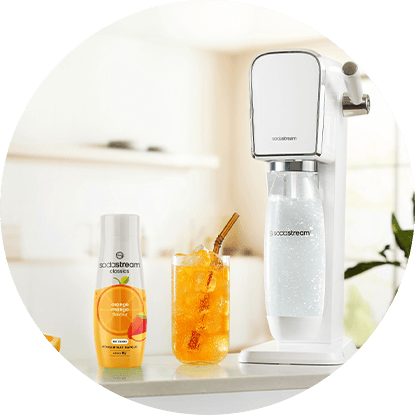
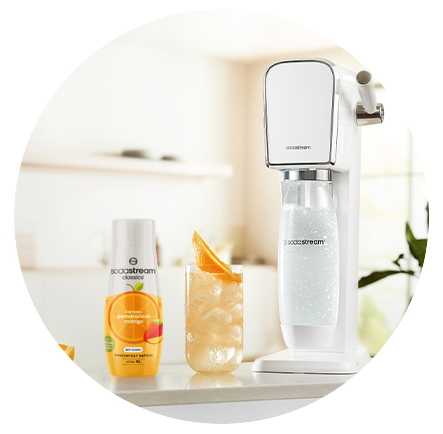
feedback updates

diff --git a/index.html b/index.html
@@ -210,7 +210,7 @@
       </div>
       <div class="es-vitamins">
         <h2 class="es-vitamins__title">
-          Delikatny smak kwiatu czarnego bzu wzmocniony witaminami*
+          Tropikalny duet - z dodatkiem witamin i cynku*
         </h2>
 
         <div class="es-vitamins__content">
@@ -223,19 +223,25 @@
               B3
             </span>
             <p class="es-vitamins__text es-vitamins__text--top">
-              Syrop SodaStream o smaku Kwiatu Czarnego Bzu zawiera niacynę,
-              czyli witaminę B3, która pomaga zmniejszyć uczucie zmęczenia. To
-              doskonały smak i Twój nowy sposób na odrobinę relaksu!
+              Pomarańcza, mango i mikroelementy - zestaw doskonały! Niacyna,
+              czyli witamina B3 pomaga zmniejszyć uczucie zmęczenia – teraz
+              znajdziesz ją również w syropie SodaStream o smaku Pomarańczy
+              Mango.
             </p>
             <span class="es-vitamins__badge es-vitamins__badge--b6">
               <span>witamina</span>
               B6
             </span>
             <p class="es-vitamins__text es-vitamins__text--bottom">
-              Subtelny smak i wsparcie dla organizmu w jednym! Cynk pomaga w
-              prawidłowym funkcjonowaniu układu odpornościowego – teraz
-              znajdziesz go także w&nbsp;syropie SodaStream o smaku Kwiatu
-              Czarnego Bzu.
+              Gotowy na nowy dzień? Cynk zawarty w syropie SodaStream o smaku
+              Pomarańczy Mango wspiera odporność i dodaje energii w codziennym
+              rytmie. Poczuj, jak małe zmiany wpływają na Ciebie!
+            </p>
+            <p class="es-vitamins__text es-vitamins__text--bottomm">
+              Syrop SodaStream o smaku Pomarańczy Mango został wzbogacony o
+              witaminę B6, która wspiera prawidłowe funkcjonowanie układu
+              nerwowego i odpornościowego. To owocowa przyjemność i codzienne
+              wsparcie dla Ciebie!
             </p>
           </div>
           <div class="es-vitamins__texts es-vitamins__texts--right">
@@ -243,9 +249,15 @@
               cynk
             </span>
             <p class="es-vitamins__text es-vitamins__text--middle">
-              Witamina B6 zawarta w syropie SodaStream o smaku Kwiatu Czarnego
-              Bzu wspomaga prawidłowe funkcjonowanie układu nerwowego. Ciesz się
-              chwilą przyjemności i codziennym wsparciem.
+              Syrop SodaStream o smaku Pomarańczy Mango został wzbogacony o
+              witaminę B6, która wspiera prawidłowe funkcjonowanie układu
+              nerwowego i odpornościowego. To owocowa przyjemność i codzienne
+              wsparcie dla Ciebie!
+            </p>
+            <p class="es-vitamins__text es-vitamins__text--middlem">
+              Gotowy na nowy dzień? Cynk zawarty w syropie SodaStream o smaku
+              Pomarańczy Mango wspiera odporność i dodaje energii w codziennym
+              rytmie. Poczuj, jak małe zmiany wpływają na Ciebie!
             </p>
           </div>
         </div>

diff --git a/css/style.css b/css/style.css
@@ -229,13 +229,24 @@
   font-family: inherit;
   font-weight: inherit;
   font-size: 16px;
-  font-family: "HurmeGeometricSans3-Light", sans-serif;
   text-align: left;
 }
 
 #es-sodastream.es-sodastream .es-vitamins__badge {
   font-size: 30px;
   font-weight: 700;
+}
+.es-vitamins__text--middlem {
+  display: block;
+}
+.es-vitamins__text--bottomm {
+  display: block;
+}
+.es-vitamins__text--middle {
+  display: none;
+}
+.es-vitamins__text--bottom {
+  display: none;
 }
 
 #es-sodastream.es-sodastream .es-vitamins__footer {
@@ -1032,19 +1043,27 @@
     font-size: 16px;
   }
   .es-vitamins__text--top {
-    top: 9%;
-    right: 29%;
+    top: 13%;
+    right: 27%;
     text-align: right !important;
   }
   .es-vitamins__text--middle {
     top: 23%;
     left: 40%;
     text-align: left !important;
+    display: block;
   }
   .es-vitamins__text--bottom {
-    top: 44%;
+    top: 46%;
     right: 51%;
     text-align: right !important;
+    display: block;
+  }
+  .es-vitamins__text--middlem {
+    display: none;
+  }
+  .es-vitamins__text--bottomm {
+    display: none;
   }
   #es-sodastream.es-sodastream .es-vitamins__footer {
     margin-top: -20px;
@@ -1120,5 +1139,11 @@
   .swiper-button-next {
     height: 40px;
     width: 40px;
+  }
+}
+
+@media (min-width: 960px) {
+  .es-vitamins__text--bottom {
+    right: 47%;
   }
 } /*# sourceMappingURL=style.css.map */
